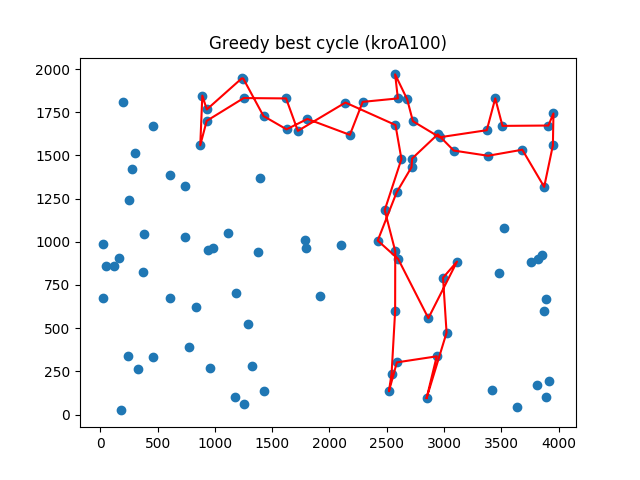
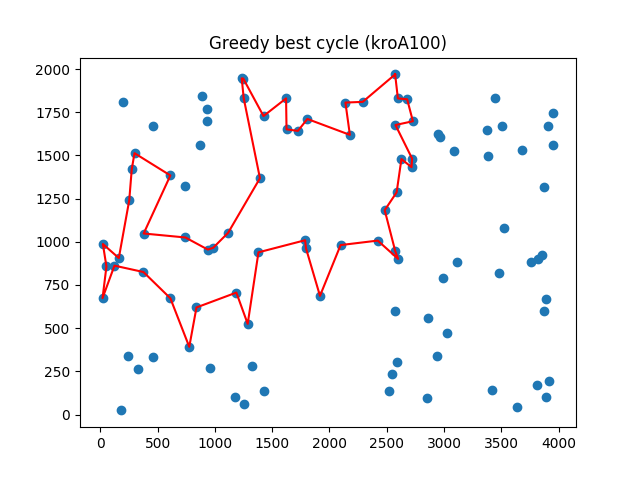
Fix greedy

diff --git a/aem/heuristics/greedy.py b/aem/heuristics/greedy.py
@@ -9,40 +9,17 @@ class Greedy(Heuristic):
         cycle = [start_vertex]
         next_vertex = self.graph.get_closest_unvisited_neighbor_idx(from_vertex=cycle[-1], visited=cycle)
         cycle.append(next_vertex)
-        while len(cycle) < 50:
-            # for each vertex find two visited that are closest and compute insertion_cost
-            min_insertion_cost = float('inf')
-            min_cost_vertex = None
-            min_insertion_position = None
+        while len(cycle) < self.graph.no_of_vertices() // 2:
+            best_cycle = None
+            best_cycle_cost = float("inf")
             for i in range(self.graph.no_of_vertices()):
                 if i not in cycle:
-                    first_closest = self.graph.get_closest_visited_idx(from_vertex=i, visited=cycle)
-                    insertion_cost, insertion_position = self.establish_insertion_cost(cycle, first_closest, i)
-                    if insertion_cost < min_insertion_cost:
-                        min_insertion_cost = insertion_cost
-                        min_cost_vertex = i
-                        min_insertion_position = insertion_position
-            cycle.insert(min_insertion_position, min_cost_vertex)
+                    for j in range(len(cycle)):
+                        tmp_cycle = cycle.copy()
+                        tmp_cycle.insert(j, i)
+                        cycle_cost = self.graph.compute_cycle_length(tmp_cycle)
+                        if cycle_cost < best_cycle_cost:
+                            best_cycle = tmp_cycle.copy()
+                            best_cycle_cost = cycle_cost
+            cycle = best_cycle.copy()
         return cycle
-
-    def establish_insertion_cost(self, cycle, first_closest, i):
-        """We can insert it either on left or right side -> calculate costs"""
-        left_idx = cycle.index(first_closest) - 1
-        right_idx = cycle.index(first_closest) + 1
-        cost_left, cost_right = float("inf"), float("inf")
-        if 0 <= left_idx < len(cycle):
-            left = cycle[left_idx]
-            cost_left = self.graph.cost(first_closest, i) + self.graph.cost(i, left)
-
-        if 0 <= right_idx < len(cycle):
-            right = cycle[right_idx]
-            cost_right = self.graph.cost(first_closest, i) + self.graph.cost(i, right)
-
-        if cost_left < cost_right:
-            insertion_cost = cost_left
-            insertion_position = max(left_idx, cycle.index(first_closest))
-        else:
-            insertion_cost = cost_right
-            insertion_position = max(right_idx, cycle.index(first_closest))
-
-        return insertion_cost, insertion_position

diff --git a/aem/heuristics/nearest_neighbor.py b/aem/heuristics/nearest_neighbor.py
@@ -7,7 +7,7 @@ class NearestNeighbor(Heuristic):
 
     def build_cycle(self, start_vertex=0) -> list:
         cycle = [start_vertex]
-        while len(cycle) < 50:
+        while len(cycle) < self.graph.no_of_vertices() // 2:
             next_closest = self.graph.get_closest_unvisited_neighbor_idx(from_vertex=cycle[-1], visited=cycle)
             cycle.append(next_closest)
         return cycle
